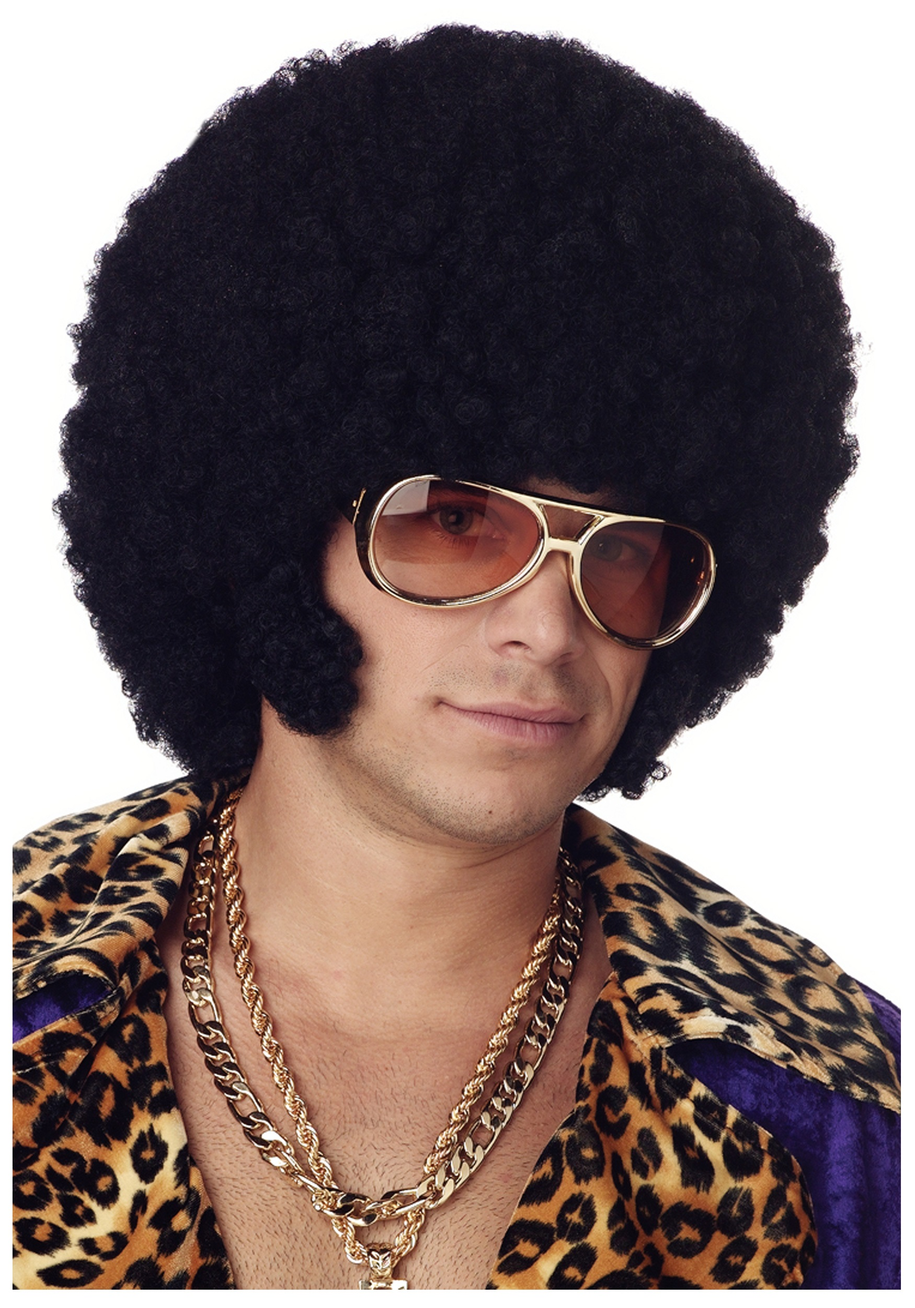
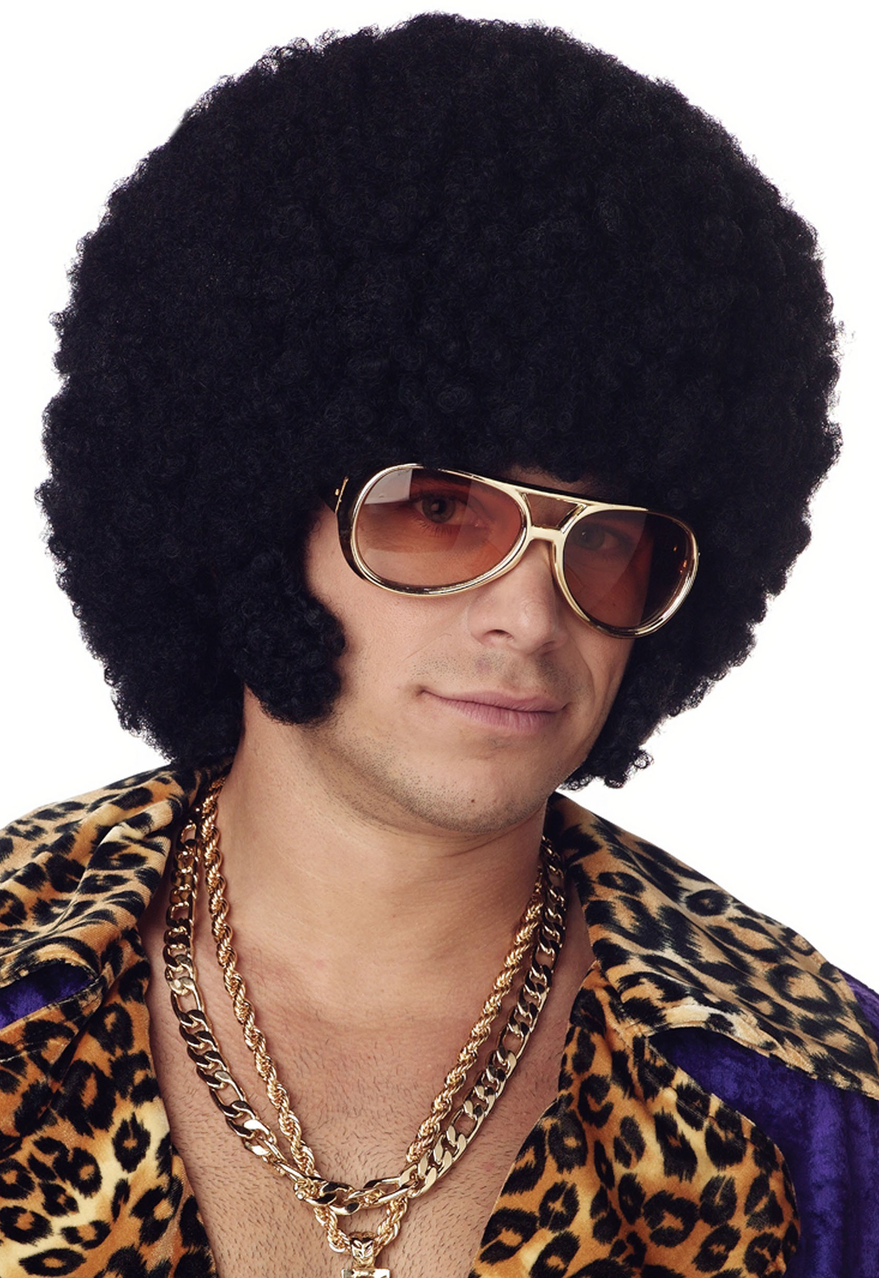
Added Project Management Docs
Added founders agreement, edited the website slightly, will finish it all later

Changed region(s): [[0.0, 0.0, 1.0, 1.0], [0.4333, 0.3423, 0.4643, 0.3735]]

diff --git a/Website/index.html b/Website/index.html
@@ -12,7 +12,7 @@
 		<div id = "mainWrap">
 			<h1>Afro Disco</h1>
 			<h3>Dance your friends into submission</h3>
-			<img src = "Assets/AF.jpg" alt = "AfroDiscoProfile" id = "afroDiscoImg">
+			<img src = "Assets/AF_V2.jpg" alt = "AfroDiscoProfile" id = "afroDiscoImg">
 			
 			<hr>
 			
@@ -35,9 +35,9 @@
 			
 			<h2>Why, it's Greased Lightning</h2>
 			<ul id = "contactDiv">
-				<li><a href = "https://twitter.com/MaximSrour">Maxim Srour &middot; @MaximSrour <img src = "Assets/AF.jpg" alt = "MaximProfile" id = "profileImg"></a></li>
-				<li><a href = "https://twitter.com/EqualzDee">David Moore &middot; @EqualzDee <img src = "Assets/AF.jpg" alt = "DavidProfile" id = "profileImg"></a></li>
-				<li><a href = "https://twitter.com/chikanz">Zac Lucarelli &middot; @chikanz <img src = "Assets/AF.jpg" alt = "ZacProfile" id = "profileImg"></a></li>
+				<li><a href = "https://twitter.com/MaximSrour">Maxim Srour &middot; @MaximSrour <img src = "Assets/AF_V2.jpg" alt = "MaximProfile" id = "profileImg"></a></li>
+				<li><a href = "https://twitter.com/EqualzDee">David Moore &middot; @EqualzDee <img src = "Assets/AF_V2.jpg" alt = "DavidProfile" id = "profileImg"></a></li>
+				<li><a href = "https://twitter.com/chikanz">Zac Lucarelli &middot; @chikanz <img src = "Assets/AF_V2.jpg" alt = "ZacProfile" id = "profileImg"></a></li>
 			</ul>
 			
 		</div>
